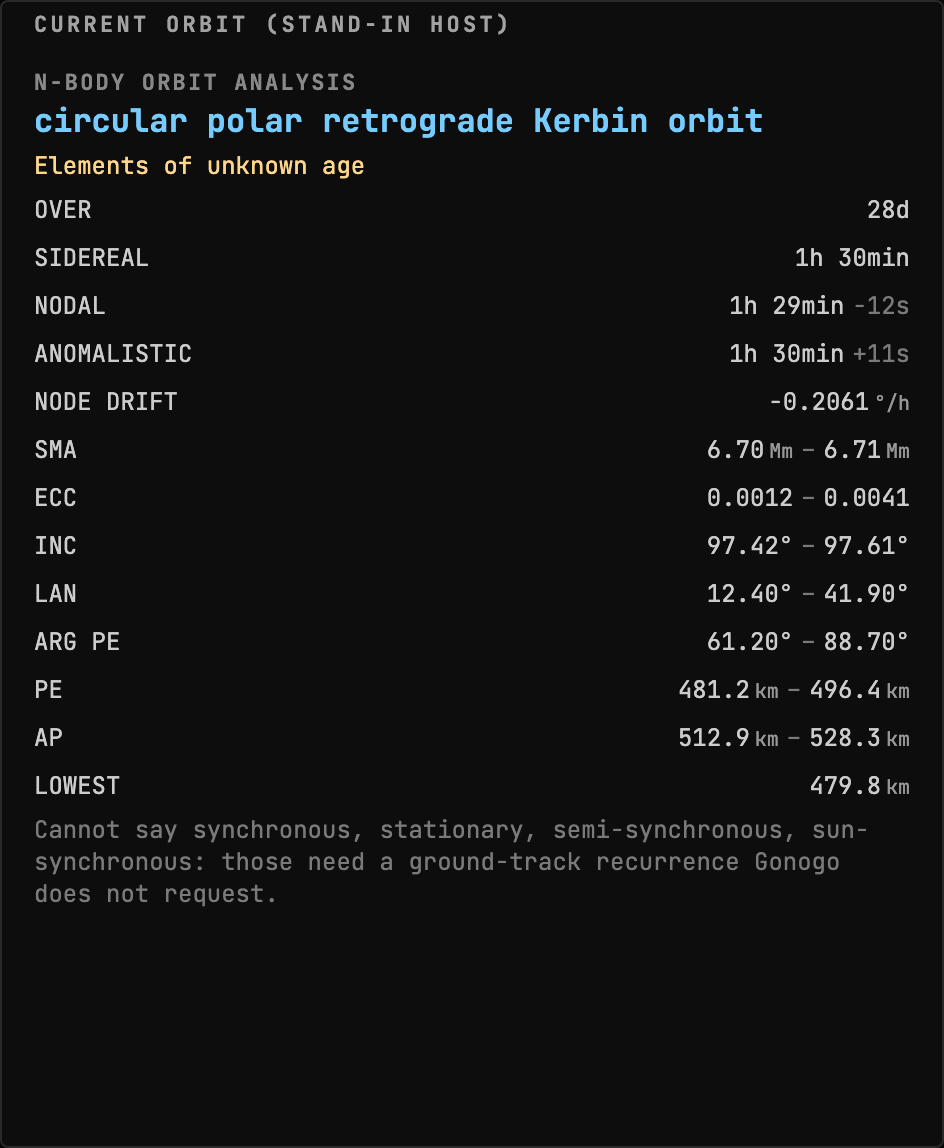
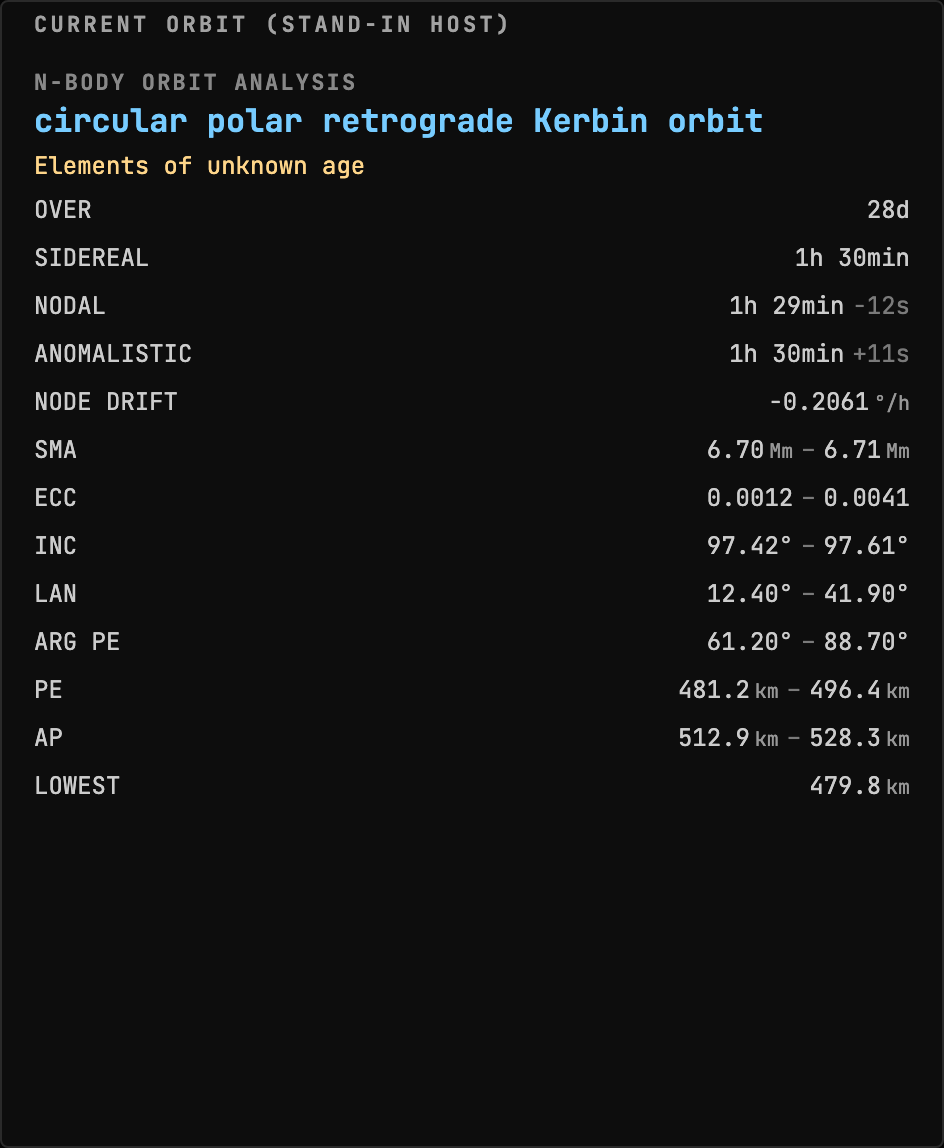
feat(principia): show the ground track the adjectives are read from
The recurrence, the crossings and the solar times reached the wire and
nothing rendered them, so the phrase said "sun-synchronous" and an
operator had to take it on trust.

Six rows now: the repeat cycle, revolutions per cycle, the subcycle, the
two crossing bands and the sun angle. The bands are the point. A
crossing band that barely widens IS a track repeating over the same
ground, and a solar-time band that barely widens IS an orbit holding its
lighting, so the numbers behind each adjective are visible beside it.

Counted in turns of the primary and labelled "turns", never days: a
stock day is six hours or twenty-four depending on a setting.

The sun angle stays an angle with 180 degrees at local noon rather than
being formatted as a clock. A clock reading needs a unit this contract
does not have, and a number formatted as a time it cannot promise is
worse than an honest angle.

Absent as a whole block rather than as rows of dashes. Anything on an
escape or a transfer has no repeating track, which is ordinary, and five
permanent dashes say "broken" where nothing is. The tests assert both
directions, because the absence test alone would pass on rows that never
render at all.

The docs gate caught the wire table drifting and the regenerated page
carries the new fields. An unrelated jogwheel gif that the generator
rewrites on macOS is reverted rather than committed as churn.

Changed region(s): [[0.0307, 0.7012, 0.9216, 0.7927]]

diff --git a/mod/GonogoPrincipiaUplink/client/src/OrbitAnalysis/index.tsx b/mod/GonogoPrincipiaUplink/client/src/OrbitAnalysis/index.tsx
@@ -116,6 +116,98 @@ function AgeLine({
 }
 
 /**
+ * The ground track: how the orbit repeats over the surface, and how steady its
+ * lighting is.
+ *
+ * <p>Absent in one block rather than as rows of dashes. A trajectory with no
+ * repeating track is the ordinary case for anything on an escape or a transfer,
+ * and five permanent dashes say "broken" where nothing is.</p>
+ *
+ * <p>The bands are the interesting part and the reason these are bands at all.
+ * A crossing band that barely widens is a track that repeats over the same
+ * ground, and a solar-time band that barely widens is an orbit holding its
+ * lighting: both are what the adjectives in the phrase above are read from, so
+ * showing them lets an operator see WHY the phrase says what it says.</p>
+ */
+function GroundTrackRows({ orbit }: { orbit: PrincipiaOrbitAnalysis }) {
+  const hasRecurrence = orbit.recurrenceCycleRotations != null;
+  const hasCrossings = orbit.ascendingCrossingDegrees != null;
+  const hasSolarTimes = orbit.ascendingNodeSolarTimeDegrees != null;
+  if (!hasRecurrence && !hasCrossings && !hasSolarTimes) return null;
+
+  return (
+    <>
+      {hasRecurrence && (
+        <>
+          {/* Turns of the PRIMARY, not days: a stock day is six hours or
+              twenty-four depending on a setting, so the wire counts rotations
+              and the label says so. */}
+          <Row as="div">
+            <RowName>REPEATS IN</RowName>
+            <Cluster>
+              <Unit value={orbit.recurrenceCycleRotations} />
+              <Text tone="faint" size="sm">
+                turns
+              </Text>
+            </Cluster>
+          </Row>
+          <Row as="div">
+            <RowName>REVS/CYCLE</RowName>
+            <Unit value={orbit.recurrenceRevolutions} />
+          </Row>
+          {/* What an operator plans revisits around: the shorter run after which
+              the track very nearly repeats. */}
+          <Row as="div">
+            <RowName>SUBCYCLE</RowName>
+            <Cluster>
+              <Unit value={orbit.recurrenceSubcycleRotations} />
+              <Text tone="faint" size="sm">
+                turns
+              </Text>
+            </Cluster>
+          </Row>
+        </>
+      )}
+      {hasCrossings && (
+        <>
+          <Row as="div">
+            <RowName>ASC NODE</RowName>
+            <Band
+              min={orbit.ascendingCrossingDegrees?.min}
+              max={orbit.ascendingCrossingDegrees?.max}
+              wrapsAt={360}
+            />
+          </Row>
+          <Row as="div">
+            <RowName>DESC NODE</RowName>
+            <Band
+              min={orbit.descendingCrossingDegrees?.min}
+              max={orbit.descendingCrossingDegrees?.max}
+              wrapsAt={360}
+            />
+          </Row>
+        </>
+      )}
+      {hasSolarTimes && (
+        /* An angle over a full turn with 180 degrees at local noon, which is
+           what the producer stores. Shown as the angle rather than as a clock
+           because a clock reading needs a unit this contract does not have, and
+           a number formatted as a time it cannot promise is worse than an
+           honest angle. */
+        <Row as="div">
+          <RowName>SUN ANGLE</RowName>
+          <Band
+            min={orbit.ascendingNodeSolarTimeDegrees?.min}
+            max={orbit.ascendingNodeSolarTimeDegrees?.max}
+            wrapsAt={360}
+          />
+        </Row>
+      )}
+    </>
+  );
+}
+
+/**
  * One analysis, as rows.
  *
  * <p>Exported so a coast can be rendered with the same body as the current
@@ -267,6 +359,8 @@ export function OrbitAnalysisRows({
           <Unit value={orbit.lowestAltitudeMetres} />
         )}
       </Row>
+
+      <GroundTrackRows orbit={orbit} />
 
       <HazardRow
         label="COLLISION"

diff --git a/mod/GonogoPrincipiaUplink/client/src/OrbitAnalysis/index.test.tsx b/mod/GonogoPrincipiaUplink/client/src/OrbitAnalysis/index.test.tsx
@@ -74,6 +74,19 @@ function orbit(overrides: Record<string, unknown> = {}) {
     meanPeriapsisAltitudeMetres: { min: 481_200, max: 496_400 },
     meanApoapsisAltitudeMetres: { min: 512_900, max: 528_300 },
     lowestAltitudeMetres: 479_800,
+    // The ground track. Present by default because the producer fits a
+    // recurrence for any closed orbit and derives the crossings from it, so an
+    // analysis WITHOUT these is the exception rather than the norm.
+    recurrenceCycleRotations: 7,
+    recurrenceRevolutionsPerRotation: 16,
+    recurrenceRevolutions: 111,
+    recurrenceSubcycleRotations: 3,
+    recurrenceEquatorialShiftDegrees: -3.21,
+    recurrenceGridIntervalDegrees: 3.21,
+    ascendingCrossingDegrees: { min: 10.2, max: 10.9 },
+    descendingCrossingDegrees: { min: 190.2, max: 190.8 },
+    ascendingNodeSolarTimeDegrees: { min: 157.4, max: 157.9 },
+    descendingNodeSolarTimeDegrees: { min: 337.4, max: 337.8 },
     ...overrides,
   };
 }
@@ -204,6 +217,64 @@ describe("OrbitAnalysisSection", () => {
     await emit(stream, { vesselId: "v", sampledAtUt: VIEW_UT, orbit: orbit() });
 
     expect(await visibleText(stream.container)).not.toContain("Cannot say");
+  });
+
+  /**
+   * The ground track, which is the data the synchronicity adjectives are read
+   * from. Showing it lets an operator see WHY the phrase says what it says
+   * rather than taking the adjective on trust.
+   */
+  it("shows the repeat cycle in turns of the primary, not days", async () => {
+    const stream = mount();
+    await emit(stream, { vesselId: "v", sampledAtUt: VIEW_UT, orbit: orbit() });
+
+    const text = await visibleText(stream.container);
+    expect(text).toContain("REPEATS IN");
+    expect(text).toContain("SUBCYCLE");
+    // "turns", never "days": a stock day is six hours or twenty-four depending
+    // on a setting, so a day here would mean one of two things.
+    expect(text).toContain("turns");
+    expect(text).not.toContain("days");
+  });
+
+  it("shows the crossing and sun-angle bands the adjectives are read from", async () => {
+    const stream = mount();
+    await emit(stream, { vesselId: "v", sampledAtUt: VIEW_UT, orbit: orbit() });
+
+    const text = await visibleText(stream.container);
+    expect(text).toContain("ASC NODE");
+    expect(text).toContain("DESC NODE");
+    expect(text).toContain("SUN ANGLE");
+  });
+
+  /**
+   * A trajectory with no repeating track is ordinary, not broken: anything on an
+   * escape or a transfer has none. Five rows of dashes would say "broken" where
+   * nothing is, so the whole block goes rather than each row emptying.
+   */
+  it("drops the whole ground-track block when there is no track", async () => {
+    const stream = mount();
+    await emit(stream, {
+      vesselId: "v",
+      sampledAtUt: VIEW_UT,
+      orbit: orbit({
+        recurrenceCycleRotations: null,
+        recurrenceRevolutions: null,
+        recurrenceSubcycleRotations: null,
+        ascendingCrossingDegrees: null,
+        descendingCrossingDegrees: null,
+        ascendingNodeSolarTimeDegrees: null,
+        descendingNodeSolarTimeDegrees: null,
+      }),
+    });
+
+    const text = await visibleText(stream.container);
+    expect(text).not.toContain("REPEATS IN");
+    expect(text).not.toContain("ASC NODE");
+    expect(text).not.toContain("SUN ANGLE");
+    // The rest of the analysis still renders: losing a ground track is not
+    // losing the orbit.
+    expect(text).toContain("SMA");
   });
 
   /** A hazard row is absent when there is no hazard, not a permanent dash. */

diff --git a/mod/GonogoPrincipiaUplink/client/README.md b/mod/GonogoPrincipiaUplink/client/README.md
@@ -29,7 +29,7 @@ Publishes Principia's n-body state: trajectory arcs, the flight plan and its bur
 | `PrincipiaComposedBurn` | `deltaVBinormal` m/s, `deltaVNormal` m/s, `deltaVTangent` m/s, `ignitionUt` ut, `inertiallyFixed` flag |
 | `PrincipiaFlightPlanBurn` | `anomalous` flag, `coordinateSystem` enum, `cutoffUt` ut, `deltaV` m/s, `durationSeconds` s, `ignitionUt` ut, `index` count, `inertiallyFixed` flag, `initialMassTons` t, `specificImpulseSeconds` isp, `thrustKilonewtons` kN |
 | `PrincipiaLengthInterval` | `max` m, `min` m |
-| `PrincipiaOrbitAnalysis` | `anomalisticPeriodSeconds` s, `elementsEpochUt` ut, `elementsPresent` flag, `firstCollisionRiskUt` ut, `firstCollisionUt` ut, `firstReentryUt` ut, `gravitationallyBound` flag, `lowestAltitudeMetres` m, `meanApoapsisAltitudeMetres` PrincipiaLengthInterval, `meanArgumentOfPeriapsisDegrees` PrincipiaAngleInterval, `meanEccentricity` PrincipiaRatioInterval, `meanInclinationDegrees` PrincipiaAngleInterval, `meanLongitudeOfAscendingNodeDegrees` PrincipiaAngleInterval, `meanPeriapsisAltitudeMetres` PrincipiaLengthInterval, `meanSemimajorAxisMetres` PrincipiaLengthInterval, `missionDurationSeconds` s, `nodalPeriodSeconds` s, `nodalPrecessionDegreesPerHour` °/h, `primaryBody` text, `primaryIndex` count, `progressOfNextAnalysis` ratio, `siderealPeriodSeconds` s |
+| `PrincipiaOrbitAnalysis` | `anomalisticPeriodSeconds` s, `ascendingCrossingDegrees` PrincipiaAngleInterval, `ascendingNodeSolarTimeDegrees` PrincipiaAngleInterval, `descendingCrossingDegrees` PrincipiaAngleInterval, `descendingNodeSolarTimeDegrees` PrincipiaAngleInterval, `elementsEpochUt` ut, `elementsPresent` flag, `firstCollisionRiskUt` ut, `firstCollisionUt` ut, `firstReentryUt` ut, `gravitationallyBound` flag, `lowestAltitudeMetres` m, `meanApoapsisAltitudeMetres` PrincipiaLengthInterval, `meanArgumentOfPeriapsisDegrees` PrincipiaAngleInterval, `meanEccentricity` PrincipiaRatioInterval, `meanInclinationDegrees` PrincipiaAngleInterval, `meanLongitudeOfAscendingNodeDegrees` PrincipiaAngleInterval, `meanPeriapsisAltitudeMetres` PrincipiaLengthInterval, `meanSemimajorAxisMetres` PrincipiaLengthInterval, `missionDurationSeconds` s, `nodalPeriodSeconds` s, `nodalPrecessionDegreesPerHour` °/h, `primaryBody` text, `primaryIndex` count, `progressOfNextAnalysis` ratio, `recurrenceCycleRotations` count, `recurrenceEquatorialShiftDegrees` °, `recurrenceGridIntervalDegrees` °, `recurrenceRevolutions` count, `recurrenceRevolutionsPerRotation` count, `recurrenceSubcycleRotations` count, `siderealPeriodSeconds` s |
 | `PrincipiaPlanArmArgs` | `requestId` id, `vesselId` id |
 | `PrincipiaPlanHorizonArgs` | `desiredFinalTimeUt` ut, `requestId` id, `vesselId` id |
 | `PrincipiaPlanIntegrator` | `generalizedIntegratorKind` enum, `integratorKind` enum, `lengthToleranceMetres` m, `maxSteps` count, `speedToleranceMetresPerSecond` m/s |
